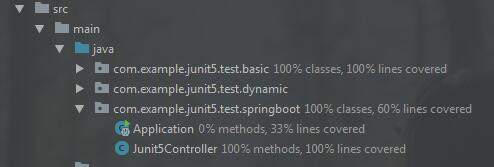
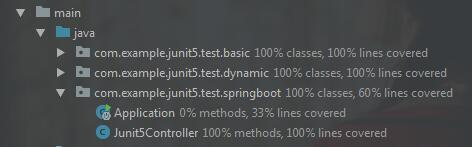
Add dynamic test logic

diff --git a/src/test/java/com/example/junit5/test/dynamic/TranslationEngineDynamicTest.java b/src/test/java/com/example/junit5/test/dynamic/TranslationEngineDynamicTest.java
@@ -1,0 +1,139 @@
+package com.example.junit5.test.dynamic;
+
+import org.junit.jupiter.api.*;
+import org.junit.jupiter.api.function.Executable;
+
+import java.util.*;
+import java.util.stream.Collectors;
+import java.util.stream.Stream;
+
+import static org.junit.jupiter.api.Assertions.assertEquals;
+
+/**
+ * 使用Junit 5 dynamic test 进行动态测试
+ * @author bluetata / Sekito.Lv@gmail.com</br>
+ * @version java-maven-junit5-example version(1.0)</br>
+ * @date 09/06/18 15:44</br>
+ * @since JDK 1.8</br>
+ */
+public class TranslationEngineDynamicTest {
+
+    private TranslatorEngine translatorEngine;
+
+    @BeforeEach
+    @DisplayName("Before run test case to init resource -> TranslatorEngine")
+    public void init() {
+        translatorEngine = new TranslatorEngine();
+    }
+
+    public void translateDynamicTestsRaw() {
+
+        List<String> inPhrases = new ArrayList<>(Arrays.asList("Hello", "Yes", "No"));
+        List<String> outPhrases = new ArrayList<>(Arrays.asList("你好", "是", "否"));
+        Collection<DynamicTest> dynamicTests = new ArrayList<>();
+
+        for (int i = 0; i < inPhrases.size(); i++) {
+
+            String phr = inPhrases.get(i);
+            String outPhr = outPhrases.get(i);
+
+            // create an test execution
+            Executable exec = () -> assertEquals(outPhr, translatorEngine.tranlate(phr));
+
+            // create a test display name
+            String testName = "Test tranlate " + phr;
+            // create dynamic test
+            DynamicTest dTest = DynamicTest.dynamicTest(testName, exec);
+
+            // add the dynamic test to collection
+            dynamicTests.add(dTest);
+        }
+    }
+
+    //
+    //
+
+    /**
+     * @TestFactory method must return a Stream, Collection, Iterable, or Iterator of DynamicTest instances
+     * @TestFactory 方法强制限制返回实例为: Stream, Collection, Iterable, or Iterator of DynamicTest.
+     *
+     * @return Collection 集合
+     */
+    @Disabled
+    // @TestFactory
+    public Collection<DynamicTest> translateDynamicTests() {
+
+        List<String> inPhrases =
+                new ArrayList<>(Arrays.asList("Hello", "Yes", "No", "Goodbye", "Good night", "Thank you"));
+        List<String> outPhrases =
+                new ArrayList<>(Arrays.asList("你好", "是", "否", "再见", "晚安", "谢谢"));
+
+        Collection<DynamicTest> dynamicTests = new ArrayList<>();
+
+        for (int i = 0; i < inPhrases.size(); i++) {
+
+            String phr = inPhrases.get(i);
+            String outPhr = outPhrases.get(i);
+
+            // create an test execution
+            Executable exec = () -> assertEquals(outPhr, translatorEngine.tranlate(phr));
+
+            // create a test display name
+            String testName = "Test tranlate " + phr;
+            // create dynamic test
+            DynamicTest dTest = DynamicTest.dynamicTest(testName, exec);
+
+            // add the dynamic test to collection
+            dynamicTests.add(dTest);
+        }
+        return dynamicTests;
+    }
+
+    // 返回 Stream 流
+    // @Disabled
+    @TestFactory
+    public Stream<DynamicTest> translateDynamicTestsFromStream() {
+
+        // set all test action to cover 100%
+        List<String> inPhrases =
+                new ArrayList<>(Arrays.asList("Hello", "Yes", "No", "Goodbye", "Good night", "Thank you", "Other", " "));
+        List<String> outPhrases =
+                new ArrayList<>(Arrays.asList("你好", "是", "否", "再见", "晚安", "谢谢", "Not found", null));
+
+        return inPhrases.stream().map(phrs -> DynamicTest.dynamicTest("Test translate " + phrs, () -> {
+            int idx = inPhrases.indexOf(phrs);
+            assertEquals(outPhrases.get(idx), translatorEngine.tranlate(phrs));
+        }));
+    }
+
+    // 返回 Iterable 迭代器
+    // @TestFactory
+    public Iterable<DynamicTest> translateDynamicTestsFromIterate() {
+
+        List<String> inPhrases =
+                new ArrayList<>(Arrays.asList("Hello", "Yes", "No", "Goodbye", "Good night", "Thank you"));
+        List<String> outPhrases =
+                new ArrayList<>(Arrays.asList("你好", "是", "否", "再见", "晚安", "谢谢"));
+
+        return inPhrases.stream().map(phrs -> DynamicTest.dynamicTest("Test translate " + phrs, () -> {
+            int idx = inPhrases.indexOf(phrs);
+            assertEquals(outPhrases.get(idx), translatorEngine.tranlate(phrs));
+        })).collect(Collectors.toList());
+    }
+
+    // 返回 Iterator 迭代器
+    @Disabled
+    // @TestFactory
+    public Iterator<DynamicTest> translateDynamicTestsFromIterator() {
+
+        List<String> inPhrases =
+                new ArrayList<>(Arrays.asList("Hello", "Yes", "No", "Goodbye", "Good night", "Thank you"));
+        List<String> outPhrases =
+                new ArrayList<>(Arrays.asList("你好", "是", "否", "再见", "晚安", "谢谢"));
+
+        return inPhrases.stream().map(phrs -> DynamicTest.dynamicTest("Test translate " + phrs, () -> {
+            int idx = inPhrases.indexOf(phrs);
+            assertEquals(outPhrases.get(idx), translatorEngine.tranlate(phrs));
+        })).iterator();
+    }
+}

diff --git a/src/test/java/com/example/junit5/test/dynamic/TranslatorEngineTest.java b/src/test/java/com/example/junit5/test/dynamic/TranslatorEngineTest.java
@@ -1,0 +1,41 @@
+package com.example.junit5.test.dynamic;
+
+import org.junit.jupiter.api.BeforeEach;
+import org.junit.jupiter.api.DisplayName;
+import org.junit.jupiter.api.Test;
+
+import static org.junit.jupiter.api.Assertions.assertEquals;
+
+/**
+ * 非动态测试示例, 需要对每个branch创建测试用例, 并进行测试
+ * @author bluetata / Sekito.Lv@gmail.com</br>
+ * @version java-maven-junit5-example version(1.0)</br>
+ * @date 09/06/18 15:44</br>
+ * @since JDK 1.8</br>
+ */
+class TranslatorEngineTest {
+
+    private TranslatorEngine translatorEngine;
+    @BeforeEach
+    @DisplayName("Before run test case to init resource -> TranslatorEngine")
+    void init() {
+        translatorEngine = new TranslatorEngine();
+    }
+
+    @Test
+    public void testTranlsateHello() {
+        assertEquals("你好", translatorEngine.tranlate("Hello"));
+    }
+
+    @Test
+    public void testTranlsateYes() {
+        assertEquals("是", translatorEngine.tranlate("Yes"));
+    }
+
+    @Test
+    public void testTranlsateNo() {
+        assertEquals("否", translatorEngine.tranlate("No"));
+    }
+
+    //... other test case
+}

diff --git a/src/main/java/com/example/junit5/test/dynamic/TranslatorEngine.java b/src/main/java/com/example/junit5/test/dynamic/TranslatorEngine.java
@@ -1,0 +1,39 @@
+package com.example.junit5.test.dynamic;
+
+import org.junit.platform.commons.util.StringUtils;
+
+/**
+ * @author bluetata / Sekito.Lv@gmail.com</br>
+ * @version java-maven-junit5-example version(1.0)</br>
+ * @date 09/06/18 15:44</br>
+ * @since JDK 1.8</br>
+ */
+public class TranslatorEngine {
+
+    public String tranlate(String text) {
+        if (StringUtils.isBlank(text)) {
+            throw new IllegalArgumentException("Translated text must not be empty.");
+        }
+        if ("Hello".equalsIgnoreCase(text)) {
+            return "你好";
+
+        } else if ("Yes".equalsIgnoreCase(text)) {
+            return "是";
+
+        } else if ("No".equalsIgnoreCase(text)) {
+            return "否";
+
+        } else if ("Goodbye".equalsIgnoreCase(text)) {
+            return "再见";
+
+        } else if ("Good night".equalsIgnoreCase(text)) {
+            return "晚安";
+
+        } else if ("Thank you".equalsIgnoreCase(text)) {
+            return "谢谢";
+        } else {
+            return "Not found";
+        }
+    }
+
+}

diff --git a/README.md b/README.md
@@ -8,12 +8,12 @@ This repository contains some examples of JUnit 5
 
 ## Sample Code Component contains
 
-- [X] [Junit 5 Basic Test Sample](/src/main/java/com/example/junit5/test/basic)
-- [ ] [Junit 5 Dynamic Test Sample](/src/main/java/com/example/junit5/test/dynamic)
-- [X] [Junit 5 Spring Boot Test Sample](/src/main/java/com/example/junit5/test/springboot)
+- [X] [Junit 5 Basic Test Sample](/src/main/java/com/example/junit5/test/basic) (done)
+- [X] [Junit 5 Dynamic Test Sample](/src/main/java/com/example/junit5/test/dynamic) (done)
+- [X] [Junit 5 Spring Boot Test Sample](/src/main/java/com/example/junit5/test/springboot) (done)
 
 ## Test Steps
-> NOTE: You can choose clone this repo. or Download Zip file to local.
+> NOTE: You can choose *clone* this repo. or *Download Zip* file to local.
 
 1. [Clone the repo](#1-clone-the-repo)
 
@@ -67,7 +67,7 @@ $ mvn test
 
 As the repo using *maven-surefire-report-plugin* plug, you can find the test report in **scr/target/surefire-reports** folder.
 
-##Sample output
+## Sample output
 
 > Spring Running
 
@@ -86,7 +86,7 @@ As the repo using *maven-surefire-report-plugin* plug, you can find the test rep
 ![](doc/source/images/test-result-report.jpg)
 
 
-# License
+## License
 [Apache 2.0](LICENSE)
 
 
